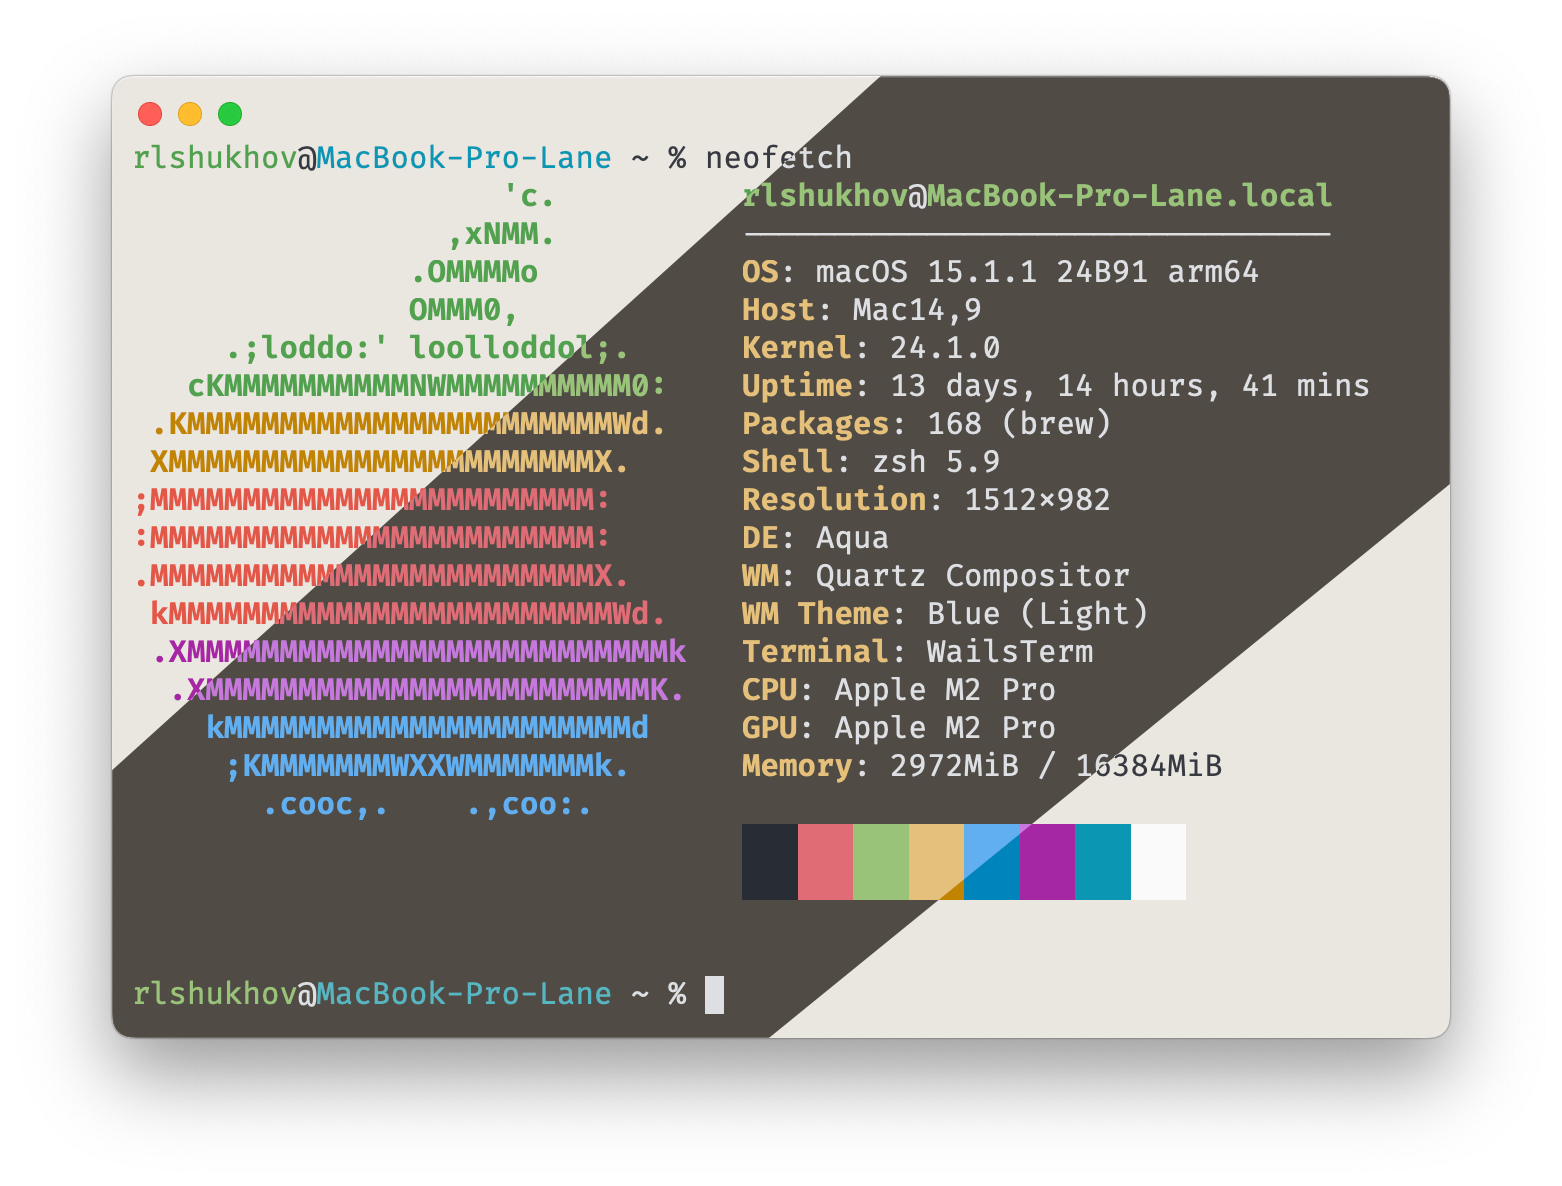
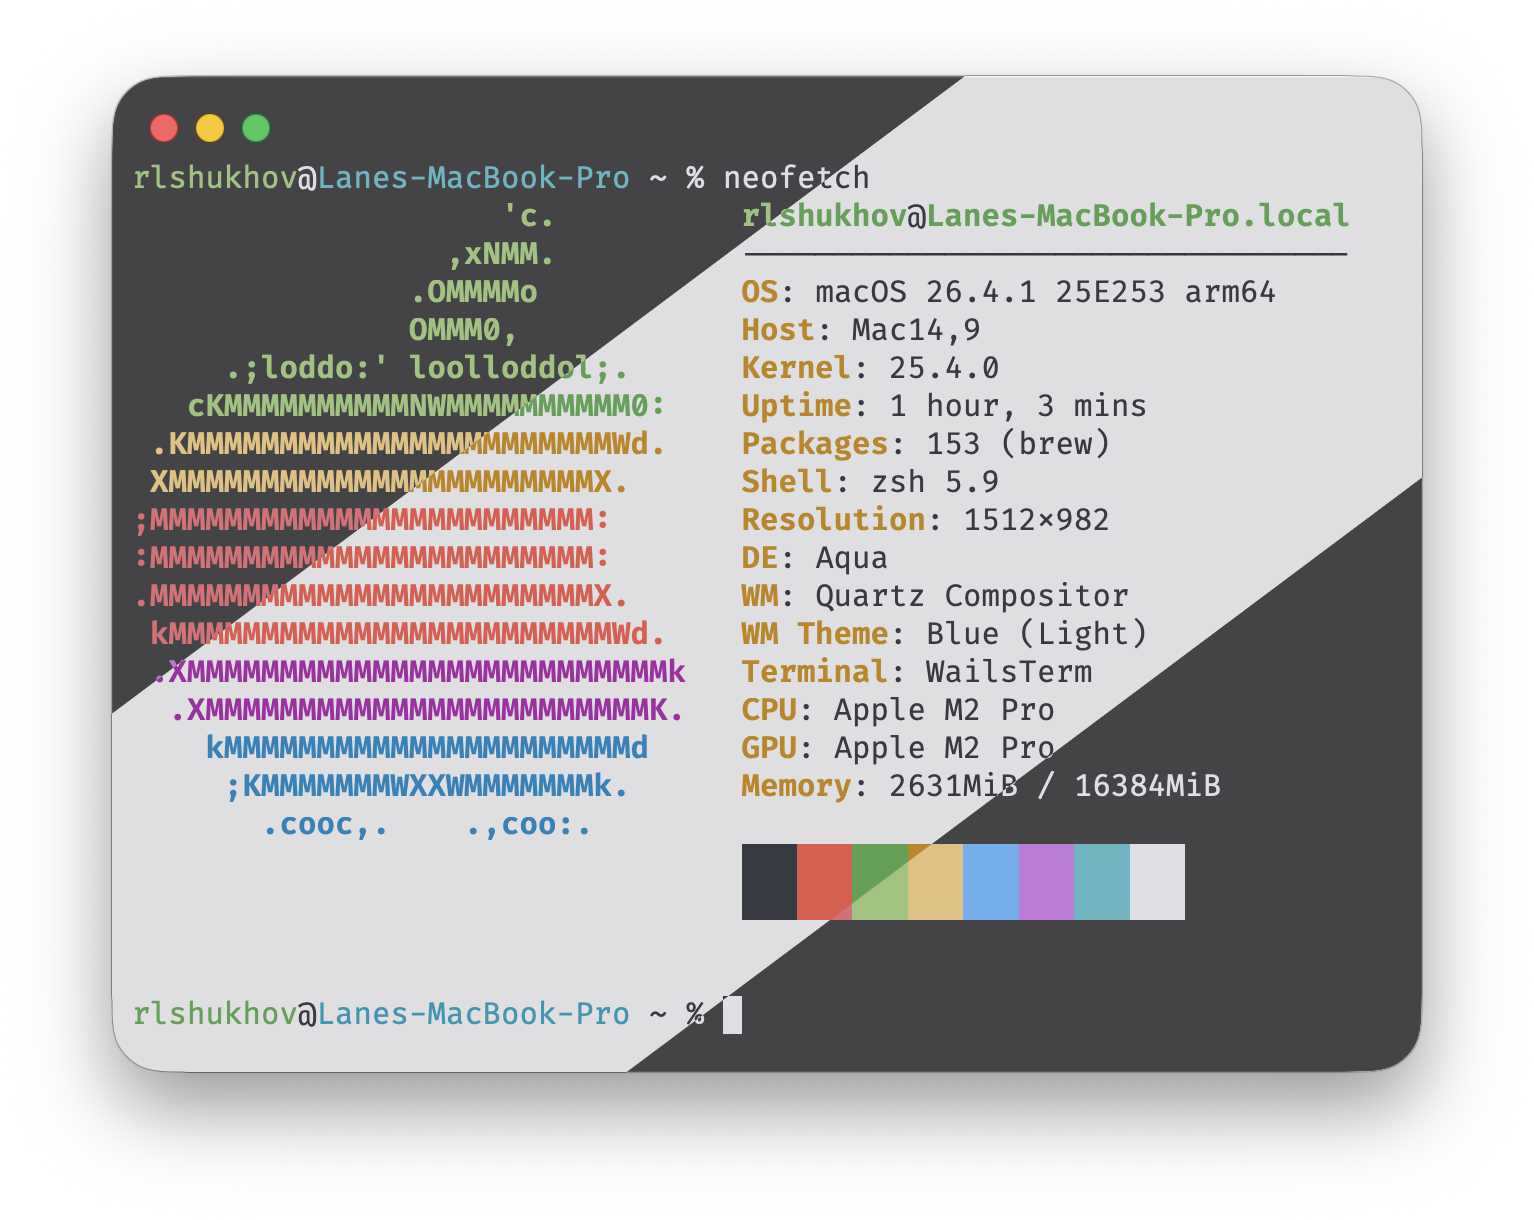
- update wails to v2.12.0 - remove localhost entropy - add wails.localhost to macOS ATS Exception - introduce Drag&Drop support

diff --git a/frontend/wailsjs/runtime/runtime.d.ts b/frontend/wailsjs/runtime/runtime.d.ts
@@ -134,7 +134,7 @@ export function WindowIsFullscreen(): Promise<boolean>;
 
 // [WindowSetSize](https://wails.io/docs/reference/runtime/window#windowsetsize)
 // Sets the width and height of the window.
-export function WindowSetSize(width: number, height: number): Promise<Size>;
+export function WindowSetSize(width: number, height: number): void;
 
 // [WindowGetSize](https://wails.io/docs/reference/runtime/window#windowgetsize)
 // Gets the width and height of the window.
@@ -247,3 +247,84 @@ export function CanResolveFilePaths(): boolean;
 
 // Resolves file paths for an array of files
 export function ResolveFilePaths(files: File[]): void
+
+// Notification types
+export interface NotificationOptions {
+    id: string;
+    title: string;
+    subtitle?: string; // macOS and Linux only
+    body?: string;
+    categoryId?: string;
+    data?: { [key: string]: any };
+}
+
+export interface NotificationAction {
+    id?: string;
+    title?: string;
+    destructive?: boolean; // macOS-specific
+}
+
+export interface NotificationCategory {
+    id?: string;
+    actions?: NotificationAction[];
+    hasReplyField?: boolean;
+    replyPlaceholder?: string;
+    replyButtonTitle?: string;
+}
+
+// [InitializeNotifications](https://wails.io/docs/reference/runtime/notification#initializenotifications)
+// Initializes the notification service for the application.
+// This must be called before sending any notifications.
+export function InitializeNotifications(): Promise<void>;
+
+// [CleanupNotifications](https://wails.io/docs/reference/runtime/notification#cleanupnotifications)
+// Cleans up notification resources and releases any held connections.
+export function CleanupNotifications(): Promise<void>;
+
+// [IsNotificationAvailable](https://wails.io/docs/reference/runtime/notification#isnotificationavailable)
+// Checks if notifications are available on the current platform.
+export function IsNotificationAvailable(): Promise<boolean>;
+
+// [RequestNotificationAuthorization](https://wails.io/docs/reference/runtime/notification#requestnotificationauthorization)
+// Requests notification authorization from the user (macOS only).
+export function RequestNotificationAuthorization(): Promise<boolean>;
+
+// [CheckNotificationAuthorization](https://wails.io/docs/reference/runtime/notification#checknotificationauthorization)
+// Checks the current notification authorization status (macOS only).
+export function CheckNotificationAuthorization(): Promise<boolean>;
+
+// [SendNotification](https://wails.io/docs/reference/runtime/notification#sendnotification)
+// Sends a basic notification with the given options.
+export function SendNotification(options: NotificationOptions): Promise<void>;
+
+// [SendNotificationWithActions](https://wails.io/docs/reference/runtime/notification#sendnotificationwithactions)
+// Sends a notification with action buttons. Requires a registered category.
+export function SendNotificationWithActions(options: NotificationOptions): Promise<void>;
+
+// [RegisterNotificationCategory](https://wails.io/docs/reference/runtime/notification#registernotificationcategory)
+// Registers a notification category that can be used with SendNotificationWithActions.
+export function RegisterNotificationCategory(category: NotificationCategory): Promise<void>;
+
+// [RemoveNotificationCategory](https://wails.io/docs/reference/runtime/notification#removenotificationcategory)
+// Removes a previously registered notification category.
+export function RemoveNotificationCategory(categoryId: string): Promise<void>;
+
+// [RemoveAllPendingNotifications](https://wails.io/docs/reference/runtime/notification#removeallpendingnotifications)
+// Removes all pending notifications from the notification center.
+export function RemoveAllPendingNotifications(): Promise<void>;
+
+// [RemovePendingNotification](https://wails.io/docs/reference/runtime/notification#removependingnotification)
+// Removes a specific pending notification by its identifier.
+export function RemovePendingNotification(identifier: string): Promise<void>;
+
+// [RemoveAllDeliveredNotifications](https://wails.io/docs/reference/runtime/notification#removealldeliverednotifications)
+// Removes all delivered notifications from the notification center.
+export function RemoveAllDeliveredNotifications(): Promise<void>;
+
+// [RemoveDeliveredNotification](https://wails.io/docs/reference/runtime/notification#removedeliverednotification)
+// Removes a specific delivered notification by its identifier.
+export function RemoveDeliveredNotification(identifier: string): Promise<void>;
+
+// [RemoveNotification](https://wails.io/docs/reference/runtime/notification#removenotification)
+// Removes a notification by its identifier (cross-platform convenience function).
+export function RemoveNotification(identifier: string): Promise<void>;

diff --git a/frontend/src/terminal.js b/frontend/src/terminal.js
@@ -8,7 +8,7 @@ import {main} from "../wailsjs/go/models";
 import {Terminal} from "@xterm/xterm";
 import {FitAddon} from "@xterm/addon-fit";
 import {WebLinksAddon} from "@xterm/addon-web-links";
-import {BrowserOpenURL} from "../wailsjs/runtime";
+import {BrowserOpenURL, OnFileDrop, OnFileDropOff} from "../wailsjs/runtime";
 import {
     GetPlatform,
     GetTerminalFontConfig,
@@ -66,10 +66,11 @@ let startTheme = getCurrentTheme(window.matchMedia && window.matchMedia('(prefer
 
 const addClass = window.withHeader ? 'with-header' : '';
 document.querySelector('#app').innerHTML += `
-    <div id="terminal-container" class="${addClass}">
+    <div id="terminal-container" class="${addClass}" style="--wails-drop-target: drop">
         <div id="terminal"></div>
     </div>
 `;
+const terminalContainer = document.querySelector('#terminal-container');
 
 const term = new Terminal({
     cursorBlink: true,
@@ -126,6 +127,19 @@ const textDecoder = new TextDecoder();
 const socket = new WebSocket(wsUrl);
 socket.binaryType = 'arraybuffer';
 
+function quotePath(path) {
+    return `'${path.replaceAll("'", `'\\''`)}'`;
+}
+
+function sendToTerminal(data) {
+    if (socket.readyState !== WebSocket.OPEN) {
+        console.warn('websocket is not open');
+        return;
+    }
+
+    socket.send(data);
+}
+
 socket.onopen = function () {
     term.focus()
     console.log('websocket opened');
@@ -149,9 +163,32 @@ socket.onclose = function () {
 };
 
 term.onData(function (data) {
-    socket.send(data);
+    sendToTerminal(data);
 });
 
 EventsOn("clear-terminal", () => {
     term.clear();
+});
+
+OnFileDrop((x, y, paths) => {
+    terminalContainer.classList.remove('wails-drop-target-active');
+
+    if (!paths || paths.length === 0) {
+        return;
+    }
+
+    term.focus();
+    sendToTerminal(paths.map(quotePath).join(' ') + ' ');
+}, true);
+
+terminalContainer.addEventListener('dragleave', () => {
+    terminalContainer.classList.remove('wails-drop-target-active');
+});
+
+terminalContainer.addEventListener('drop', () => {
+    terminalContainer.classList.remove('wails-drop-target-active');
+});
+
+window.addEventListener('beforeunload', () => {
+    OnFileDropOff();
 });

diff --git a/frontend/wailsjs/runtime/runtime.js b/frontend/wailsjs/runtime/runtime.js
@@ -48,6 +48,10 @@ export function EventsOff(eventName, ...additionalEventNames) {
     return window.runtime.EventsOff(eventName, ...additionalEventNames);
 }
 
+export function EventsOffAll() {
+  return window.runtime.EventsOffAll();
+}
+
 export function EventsOnce(eventName, callback) {
     return EventsOnMultiple(eventName, callback, 1);
 }
@@ -235,4 +239,60 @@ export function CanResolveFilePaths() {
 
 export function ResolveFilePaths(files) {
     return window.runtime.ResolveFilePaths(files);
+}
+
+export function InitializeNotifications() {
+    return window.runtime.InitializeNotifications();
+}
+
+export function CleanupNotifications() {
+    return window.runtime.CleanupNotifications();
+}
+
+export function IsNotificationAvailable() {
+    return window.runtime.IsNotificationAvailable();
+}
+
+export function RequestNotificationAuthorization() {
+    return window.runtime.RequestNotificationAuthorization();
+}
+
+export function CheckNotificationAuthorization() {
+    return window.runtime.CheckNotificationAuthorization();
+}
+
+export function SendNotification(options) {
+    return window.runtime.SendNotification(options);
+}
+
+export function SendNotificationWithActions(options) {
+    return window.runtime.SendNotificationWithActions(options);
+}
+
+export function RegisterNotificationCategory(category) {
+    return window.runtime.RegisterNotificationCategory(category);
+}
+
+export function RemoveNotificationCategory(categoryId) {
+    return window.runtime.RemoveNotificationCategory(categoryId);
+}
+
+export function RemoveAllPendingNotifications() {
+    return window.runtime.RemoveAllPendingNotifications();
+}
+
+export function RemovePendingNotification(identifier) {
+    return window.runtime.RemovePendingNotification(identifier);
+}
+
+export function RemoveAllDeliveredNotifications() {
+    return window.runtime.RemoveAllDeliveredNotifications();
+}
+
+export function RemoveDeliveredNotification(identifier) {
+    return window.runtime.RemoveDeliveredNotification(identifier);
+}
+
+export function RemoveNotification(identifier) {
+    return window.runtime.RemoveNotification(identifier);
 }

diff --git a/frontend/src/app.css b/frontend/src/app.css
@@ -15,6 +15,12 @@
     width: calc(100% - (var(--safe-area) * 2));
 }
 
+#terminal-container {
+    position: relative;
+    border-radius: 12px;
+    overflow: hidden;
+}
+
 .with-header {
     height: calc(100vh - var(--header-height) - var(--safe-area) * 2) !important;
 }
@@ -36,6 +42,11 @@
 #terminal {
     height: 100%;
     width: 100%;
+}
+
+#terminal-container.wails-drop-target-active {
+    outline: 2px dashed rgba(59, 130, 246, 0.95);
+    outline-offset: -10px;
 }
 
 #header {

diff --git a/frontend/wailsjs/go/models.ts b/frontend/wailsjs/go/models.ts
@@ -19,13 +19,13 @@ export namespace keys {
 
 export namespace main {
 	
+	export enum Platform {
+	    Linux = "linux",
+	    MacOs = "darwin",
+	    Windows = "windows",
+	}
 	export enum TerminalFontFamily {
 	    FiraCode = "FiraCode",
-	}
-	export enum Platform {
-	    MacOs = "darwin",
-	    Linux = "linux",
-	    Windows = "windows",
 	}
 	export enum TerminalTheme {
 	    OneHalf = "OneHalf",

diff --git a/frontend/wailsjs/go/main/App.js b/frontend/wailsjs/go/main/App.js
@@ -2,6 +2,10 @@
 // Cynhyrchwyd y ffeil hon yn awtomatig. PEIDIWCH Â MODIWL
 // This file is automatically generated. DO NOT EDIT
 
+export function ClearTerminal(arg1) {
+  return window['go']['main']['App']['ClearTerminal'](arg1);
+}
+
 export function GetPlatform() {
   return window['go']['main']['App']['GetPlatform']();
 }

diff --git a/frontend/wailsjs/go/main/App.d.ts b/frontend/wailsjs/go/main/App.d.ts
@@ -1,6 +1,9 @@
 // Cynhyrchwyd y ffeil hon yn awtomatig. PEIDIWCH Â MODIWL
 // This file is automatically generated. DO NOT EDIT
+import {menu} from '../models';
 import {main} from '../models';
+
+export function ClearTerminal(arg1:menu.CallbackData):Promise<void>;
 
 export function GetPlatform():Promise<main.Platform>;
 

diff --git a/term.go b/term.go
@@ -27,8 +27,7 @@ import (
 
 var errPortInUse = errors.New("port is in use")
 
-const devLocalhost = "wails.localhost"
-const productionLocalhost = "wails"
+const websocketHost = "wails.localhost"
 
 var upgrader = websocket.Upgrader{
 	ReadBufferSize:  1024,
@@ -53,7 +52,7 @@ var upgrader = websocket.Upgrader{
 			}
 		}
 
-		return equalASCIIFold(host, devLocalhost) || equalASCIIFold(host, productionLocalhost)
+		return equalASCIIFold(host, websocketHost)
 	},
 }
 
@@ -123,7 +122,7 @@ func initTerm(exitCallback func()) (*term, error) {
 		return nil, err
 	}
 
-	wsListenAddress := net.JoinHostPort(devLocalhost, port)
+	wsListenAddress := net.JoinHostPort(websocketHost, port)
 	wsPath := "/ws/pty/"
 	accessToken := generateRandomString(32)
 
@@ -250,7 +249,7 @@ func getPort() (string, error) {
 
 func checkPort(port string) error {
 	timeout := 50 * time.Millisecond
-	conn, err := net.DialTimeout("tcp", net.JoinHostPort(devLocalhost, port), timeout)
+	conn, err := net.DialTimeout("tcp", net.JoinHostPort(websocketHost, port), timeout)
 	if err != nil {
 		return nil
 	}

diff --git a/main.go b/main.go
@@ -69,6 +69,10 @@ func runApp() {
 		AssetServer: &assetserver.Options{
 			Assets: assets,
 		},
+		DragAndDrop: &options.DragAndDrop{
+			EnableFileDrop:     true,
+			DisableWebViewDrop: true,
+		},
 		OnStartup: app.startup,
 		Menu:      appMenu,
 		Bind: []any{

diff --git a/README.md b/README.md
@@ -11,6 +11,7 @@ Simple translucent terminal app build with **Golang** + **WebKit** + **Vanilla J
 - [x] Auto light/dark theme support
 - [x] Configurable
 - [x] WebLinks support (open with `cmd+click` on macOS, and `ctrl+click` on Windows/Linux)
+- [x] Drag & Drop support
 
 ### TODO:
 
@@ -59,7 +60,7 @@ terminal:
 
 ## Supported OS
 
-- [x] MacOS (tested on macOS 15.1.1)
+- [x] macOS (tested on macOS 26.4.1)
 - [ ] Windows (not tested, but supported by stack)
 - [ ] Linux (not tested, but supported by stack)
 
